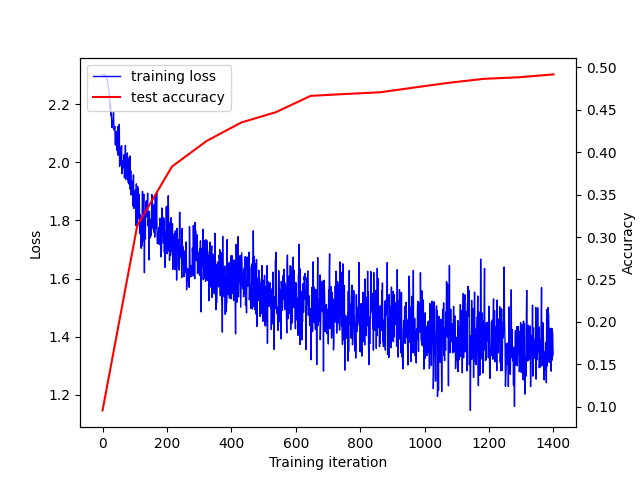
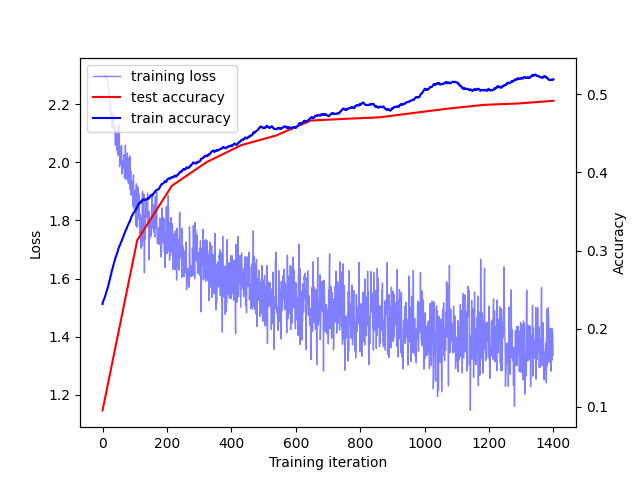
Add training accuracy

diff --git a/assignment_1/1_mlp_cnn/code/train_mlp_pytorch.py b/assignment_1/1_mlp_cnn/code/train_mlp_pytorch.py
@@ -55,6 +55,8 @@ def accuracy(predictions, targets):
     return accuracy
 
 def eval(model, dataset, batch_size, device):
+    # model.eval()
+
     total_images = 0
     total_accuracy = 0
     num_batches = 0
@@ -115,8 +117,6 @@ def train():
     else:
         dnn_hidden_units = []
     
-    # neg_slope = FLAGS.neg_slope
-    
     ########################
     device = torch.device("cpu") if not torch.cuda.is_available() else torch.device("cuda:0")
     print("Using device", device)
@@ -128,10 +128,26 @@ def train():
 
     losses = []
     test_accuracies = []
+    train_accuracies = []
 
     model = MLP(3*32*32, dnn_hidden_units, 10).to(device)
     loss_module = nn.CrossEntropyLoss()
     optimizer = torch.optim.SGD(model.parameters(), lr=FLAGS.learning_rate)
+    # optimizer = torch.optim.SGD(model.parameters(), lr=FLAGS.learning_rate, momentum=0.9)
+    # optimizer = torch.optim.Adam(model.parameters(), lr=FLAGS.learning_rate)
+    scheduler = torch.optim.lr_scheduler.MultiStepLR(optimizer, milestones=[3000,5000], gamma=0.1)
+    
+    for name, param in model.named_parameters():
+        if name.endswith(".bias"):
+            # param.data.fill_(0)
+            nn.init.zeros_(param.data)
+        else:
+            # bound = np.sqrt(6)/np.sqrt(param.shape[0]+param.shape[1])
+            # nn.init.uniform_(param.data, -bound, bound)
+            # nn.init.xavier_uniform_(param.data)
+            # Initialize weights and bias
+            nn.init.normal_(param.data, mean=0, std=0.0001)
+        # nn.init.zeros_(layer.bias)
     
     model.train()
     step = 0 
@@ -139,7 +155,7 @@ def train():
         if step % FLAGS.eval_freq == 0: # Evaluate the model on the test dataset
             test_accuracy = eval(model, test, FLAGS.batch_size, device)
             test_accuracies.append(test_accuracy)
-            # print(f"STEP {step} - {test_accuracy}")
+            print(f"STEP {step} - {test_accuracy}")
         
         images, labels = train.next_batch(FLAGS.batch_size)
 
@@ -148,6 +164,7 @@ def train():
         labels = torch.from_numpy(labels).to(device)
 
         preds = model(images)
+        train_accuracies.append(accuracy(preds, labels))
 
         loss = loss_module(preds, labels)
         losses.append(loss.item())
@@ -155,10 +172,36 @@ def train():
         optimizer.zero_grad()
         loss.backward()
         optimizer.step()
+        scheduler.step()
 
         step += 1
     
-    plot_loss_accuracy(losses, test_accuracies, save=False)
+    # plot_loss_accuracy(losses, test_accuracies, save=False)
+    def moving_average(a, n=3):
+        # Taken from https://stackoverflow.com/questions/14313510/how-to-calculate-moving-average-using-numpy
+        ret = np.cumsum(a, dtype=float)
+        ret[n:] = ret[n:] - ret[:-n]
+        return ret[n - 1:] / n
+    
+    train_accuracies = moving_average(train_accuracies, n=100)
+
+    fig, ax1 = plt.subplots()
+
+    ax1.set_xlabel('Training iteration')
+    ax1.set_ylabel('Loss')
+    l1 = ax1.plot(range(len(losses)), losses, label="training loss", color="b", alpha=0.5, linewidth=1)
+
+    ax2 = ax1.twinx()
+    ax2.set_ylabel('Accuracy')
+    l2 = ax2.plot(np.linspace(0, len(losses), len(test_accuracies)), test_accuracies, label="test accuracy", color="r")
+    l3 = ax2.plot(np.linspace(0, len(losses), len(train_accuracies)), train_accuracies, label="train accuracy", color="b")
+
+    plots = l1+l2+l3
+    labels = [plot.get_label() for plot in plots]
+    ax2.legend(plots, labels)
+
+    plt.savefig(os.path.join("images", "pytorch_loss_accuracy.png"))
+    plt.show()
     
 
 

diff --git a/assignment_1/1_mlp_cnn/code/train_mlp_numpy.py b/assignment_1/1_mlp_cnn/code/train_mlp_numpy.py
@@ -98,6 +98,7 @@ def train():
     test = cifar10["test"]
 
     losses = []
+    train_accuracies = []
     test_accuracies = []
 
     model = MLP(3*32*32, dnn_hidden_units, 10)
@@ -114,6 +115,7 @@ def train():
         images = images.reshape(images.shape[0], -1)
 
         preds = model.forward(images)
+        train_accuracies.append(accuracy(preds, labels))
 
         loss = loss_module.forward(preds, labels)
         dloss = loss_module.backward(preds, labels)
@@ -131,21 +133,31 @@ def train():
 
     print("END TRAINING")
 
+    def moving_average(a, n=3):
+        # Taken from https://stackoverflow.com/questions/14313510/how-to-calculate-moving-average-using-numpy
+        ret = np.cumsum(a, dtype=float)
+        ret[n:] = ret[n:] - ret[:-n]
+        return ret[n - 1:] / n
+    
+    train_accuracies = moving_average(train_accuracies, n=100)
+
     fig, ax1 = plt.subplots()
 
     ax1.set_xlabel('Training iteration')
     ax1.set_ylabel('Loss')
-    l1 = ax1.plot(range(len(losses)), losses, label="training loss", color="b", linewidth=1)
+    l1 = ax1.plot(range(len(losses)), losses, label="training loss", color="b", alpha=0.5, linewidth=1)
 
     ax2 = ax1.twinx()
     ax2.set_ylabel('Accuracy')
     l2 = ax2.plot(np.linspace(0, len(losses), len(test_accuracies)), test_accuracies, label="test accuracy", color="r")
+    l3 = ax2.plot(np.linspace(0, len(losses), len(train_accuracies)), train_accuracies, label="train accuracy", color="b")
 
-    plots = l1+l2
+    plots = l1+l2+l3
     labels = [plot.get_label() for plot in plots]
     ax2.legend(plots, labels)
 
     plt.savefig(os.path.join("images", "numpy_loss_accuracy.png"))
+    plt.show()
 
 
 

diff --git a/assignment_1/1_mlp_cnn/code/mlp_pytorch.py b/assignment_1/1_mlp_cnn/code/mlp_pytorch.py
@@ -33,27 +33,19 @@ class MLP(nn.Module):
         TODO:
         Implement initialization of the network.
         """
-        super(MLP, self).__init__()
+        super().__init__()
 
         layers = []
         n_in = n_inputs
         for h_layer in n_hidden:
           n_out = h_layer
-          print(n_in, n_out)
           layer = nn.Linear(n_in, n_out)
-
-          # Initialize weights and bias
-          nn.init.normal_(layer.weight, mean=0, std=0.0001)
-          nn.init.zeros_(layer.bias)
           
-          layers.append(layer)
+          layers += [layer, nn.ELU()]
           n_in = n_out
         
-        
+        layers += [nn.Linear(n_in, n_classes)]
         self.layers = nn.ModuleList(layers)
-        self.h = nn.ELU()
-        self.out_layer = nn.Linear(n_in, n_classes)
-        print(self)
 
     
     def forward(self, x):
@@ -72,7 +64,6 @@ class MLP(nn.Module):
 
         out = x.clone().detach()
         for layer in self.layers:
-          out = self.h(layer(out))
+          out = layer(out)
         
-        out = self.out_layer(out)
         return out
